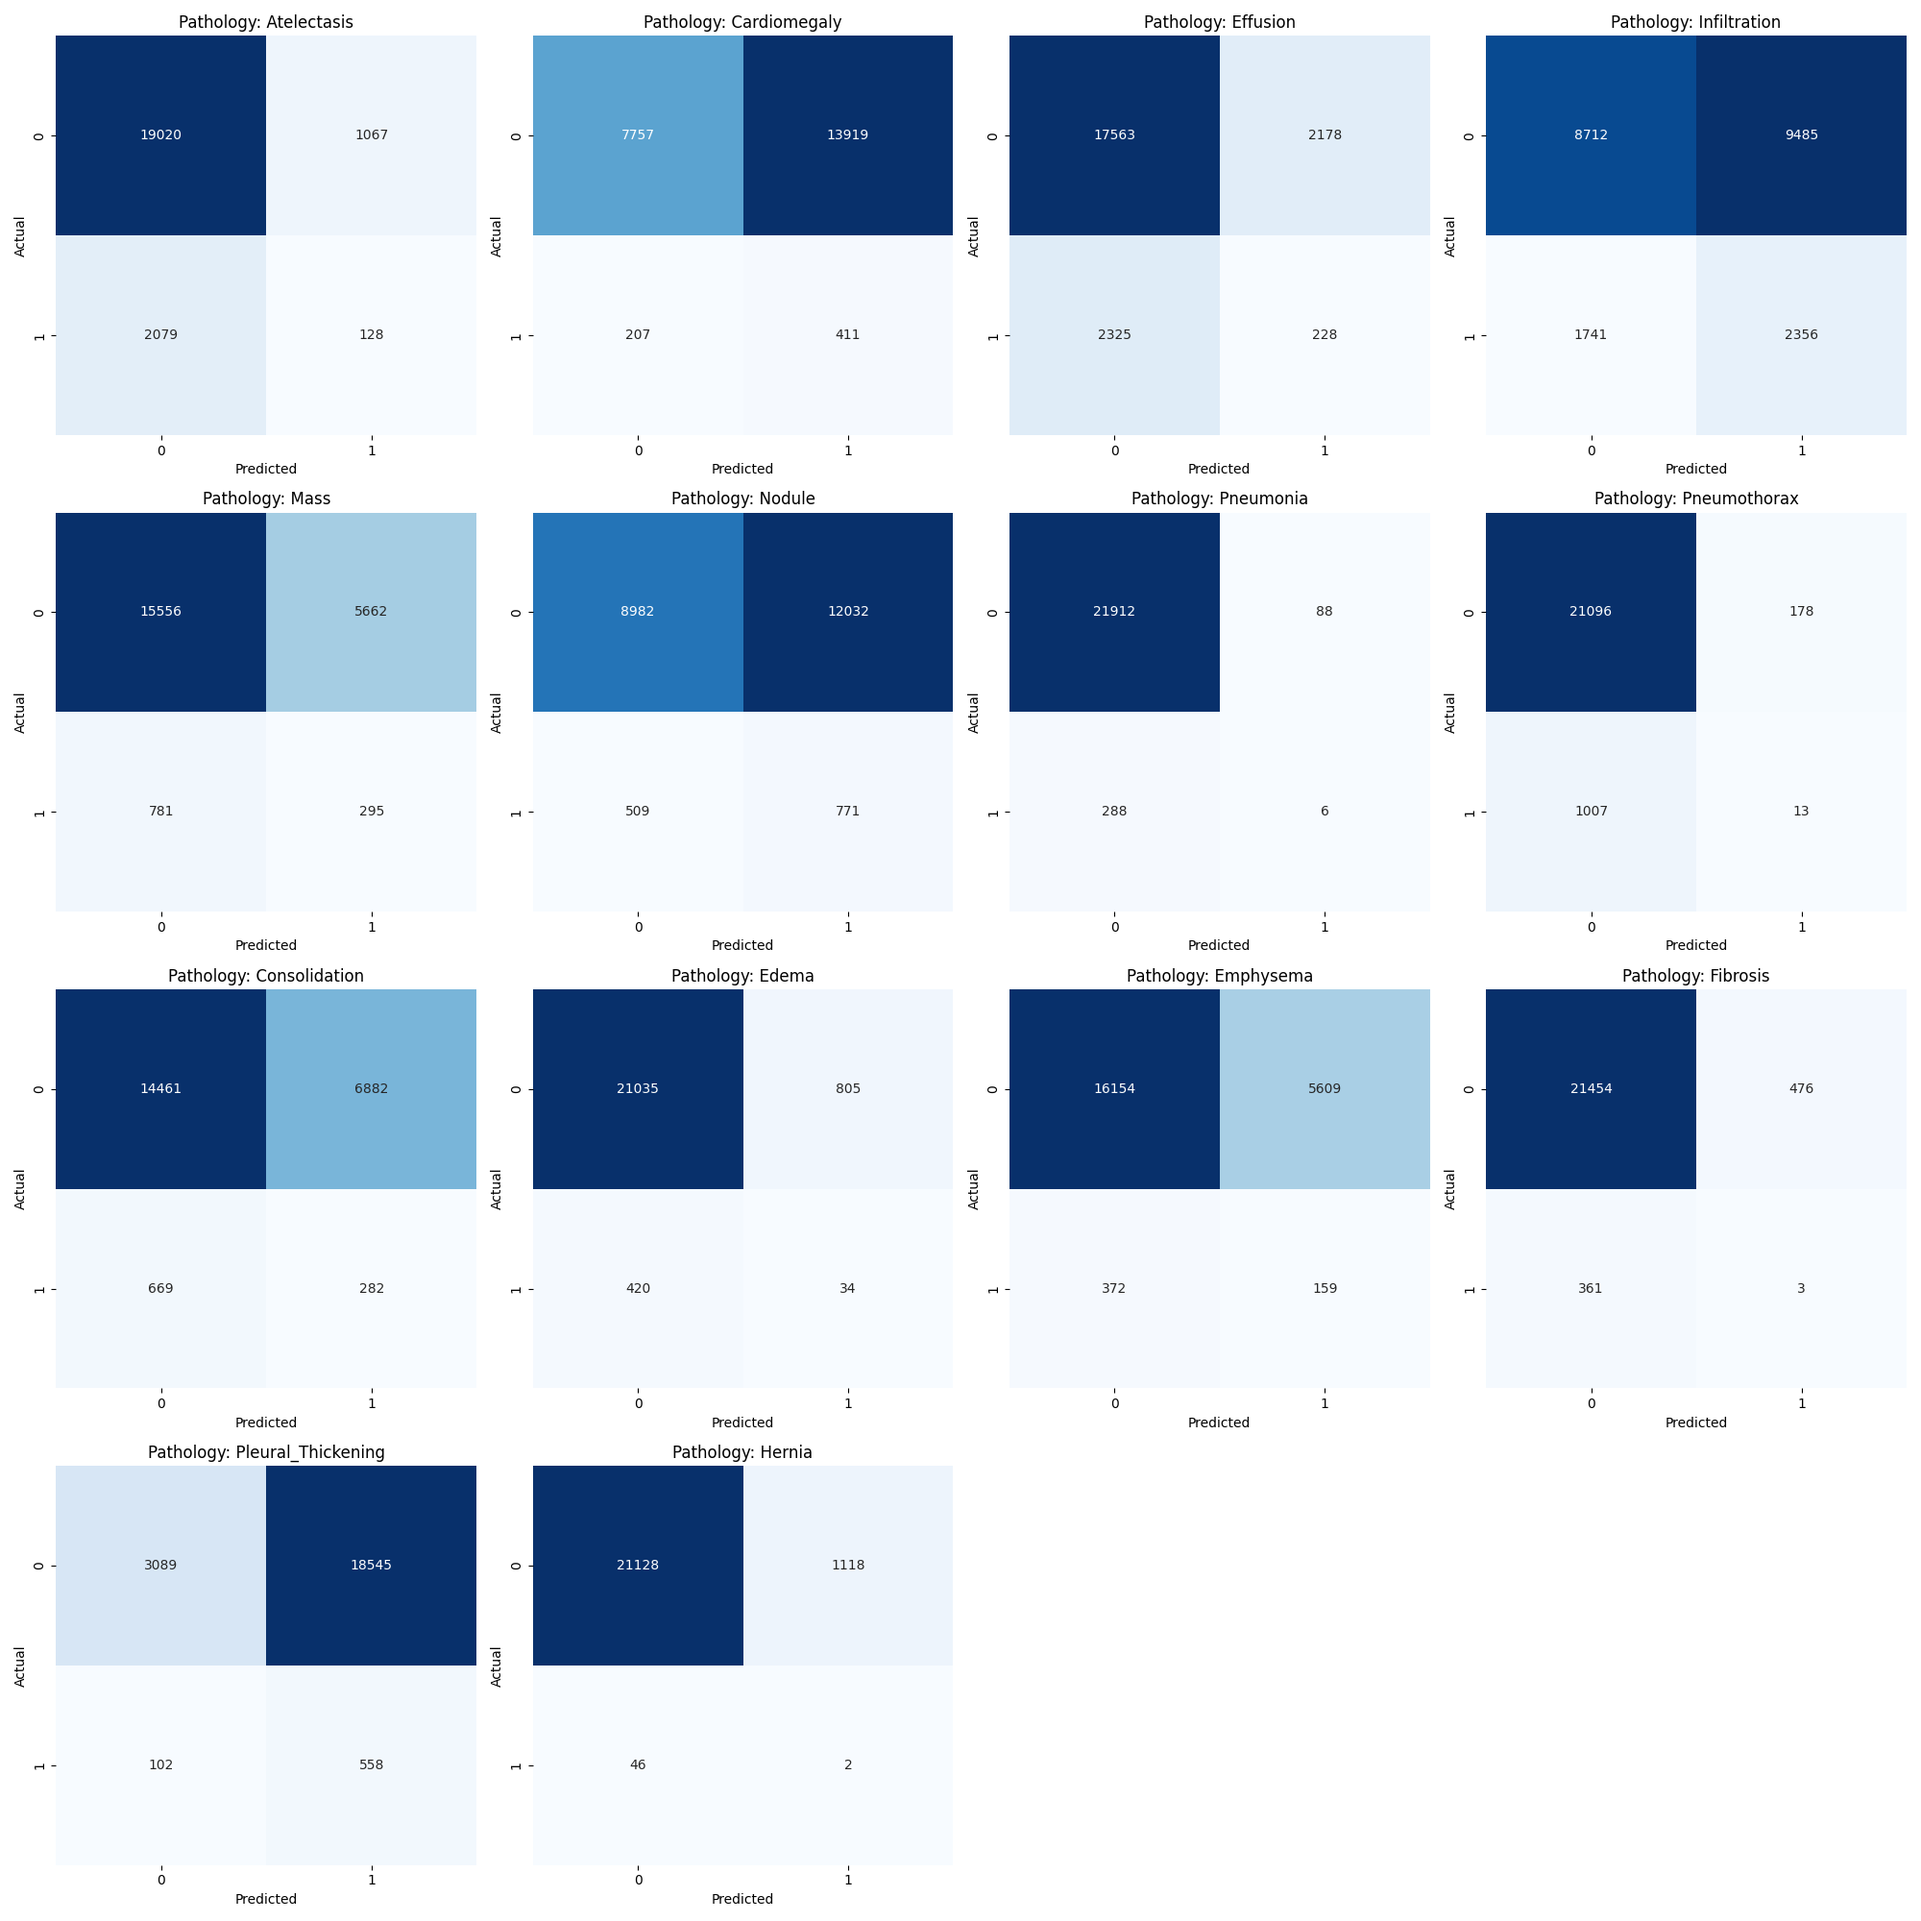
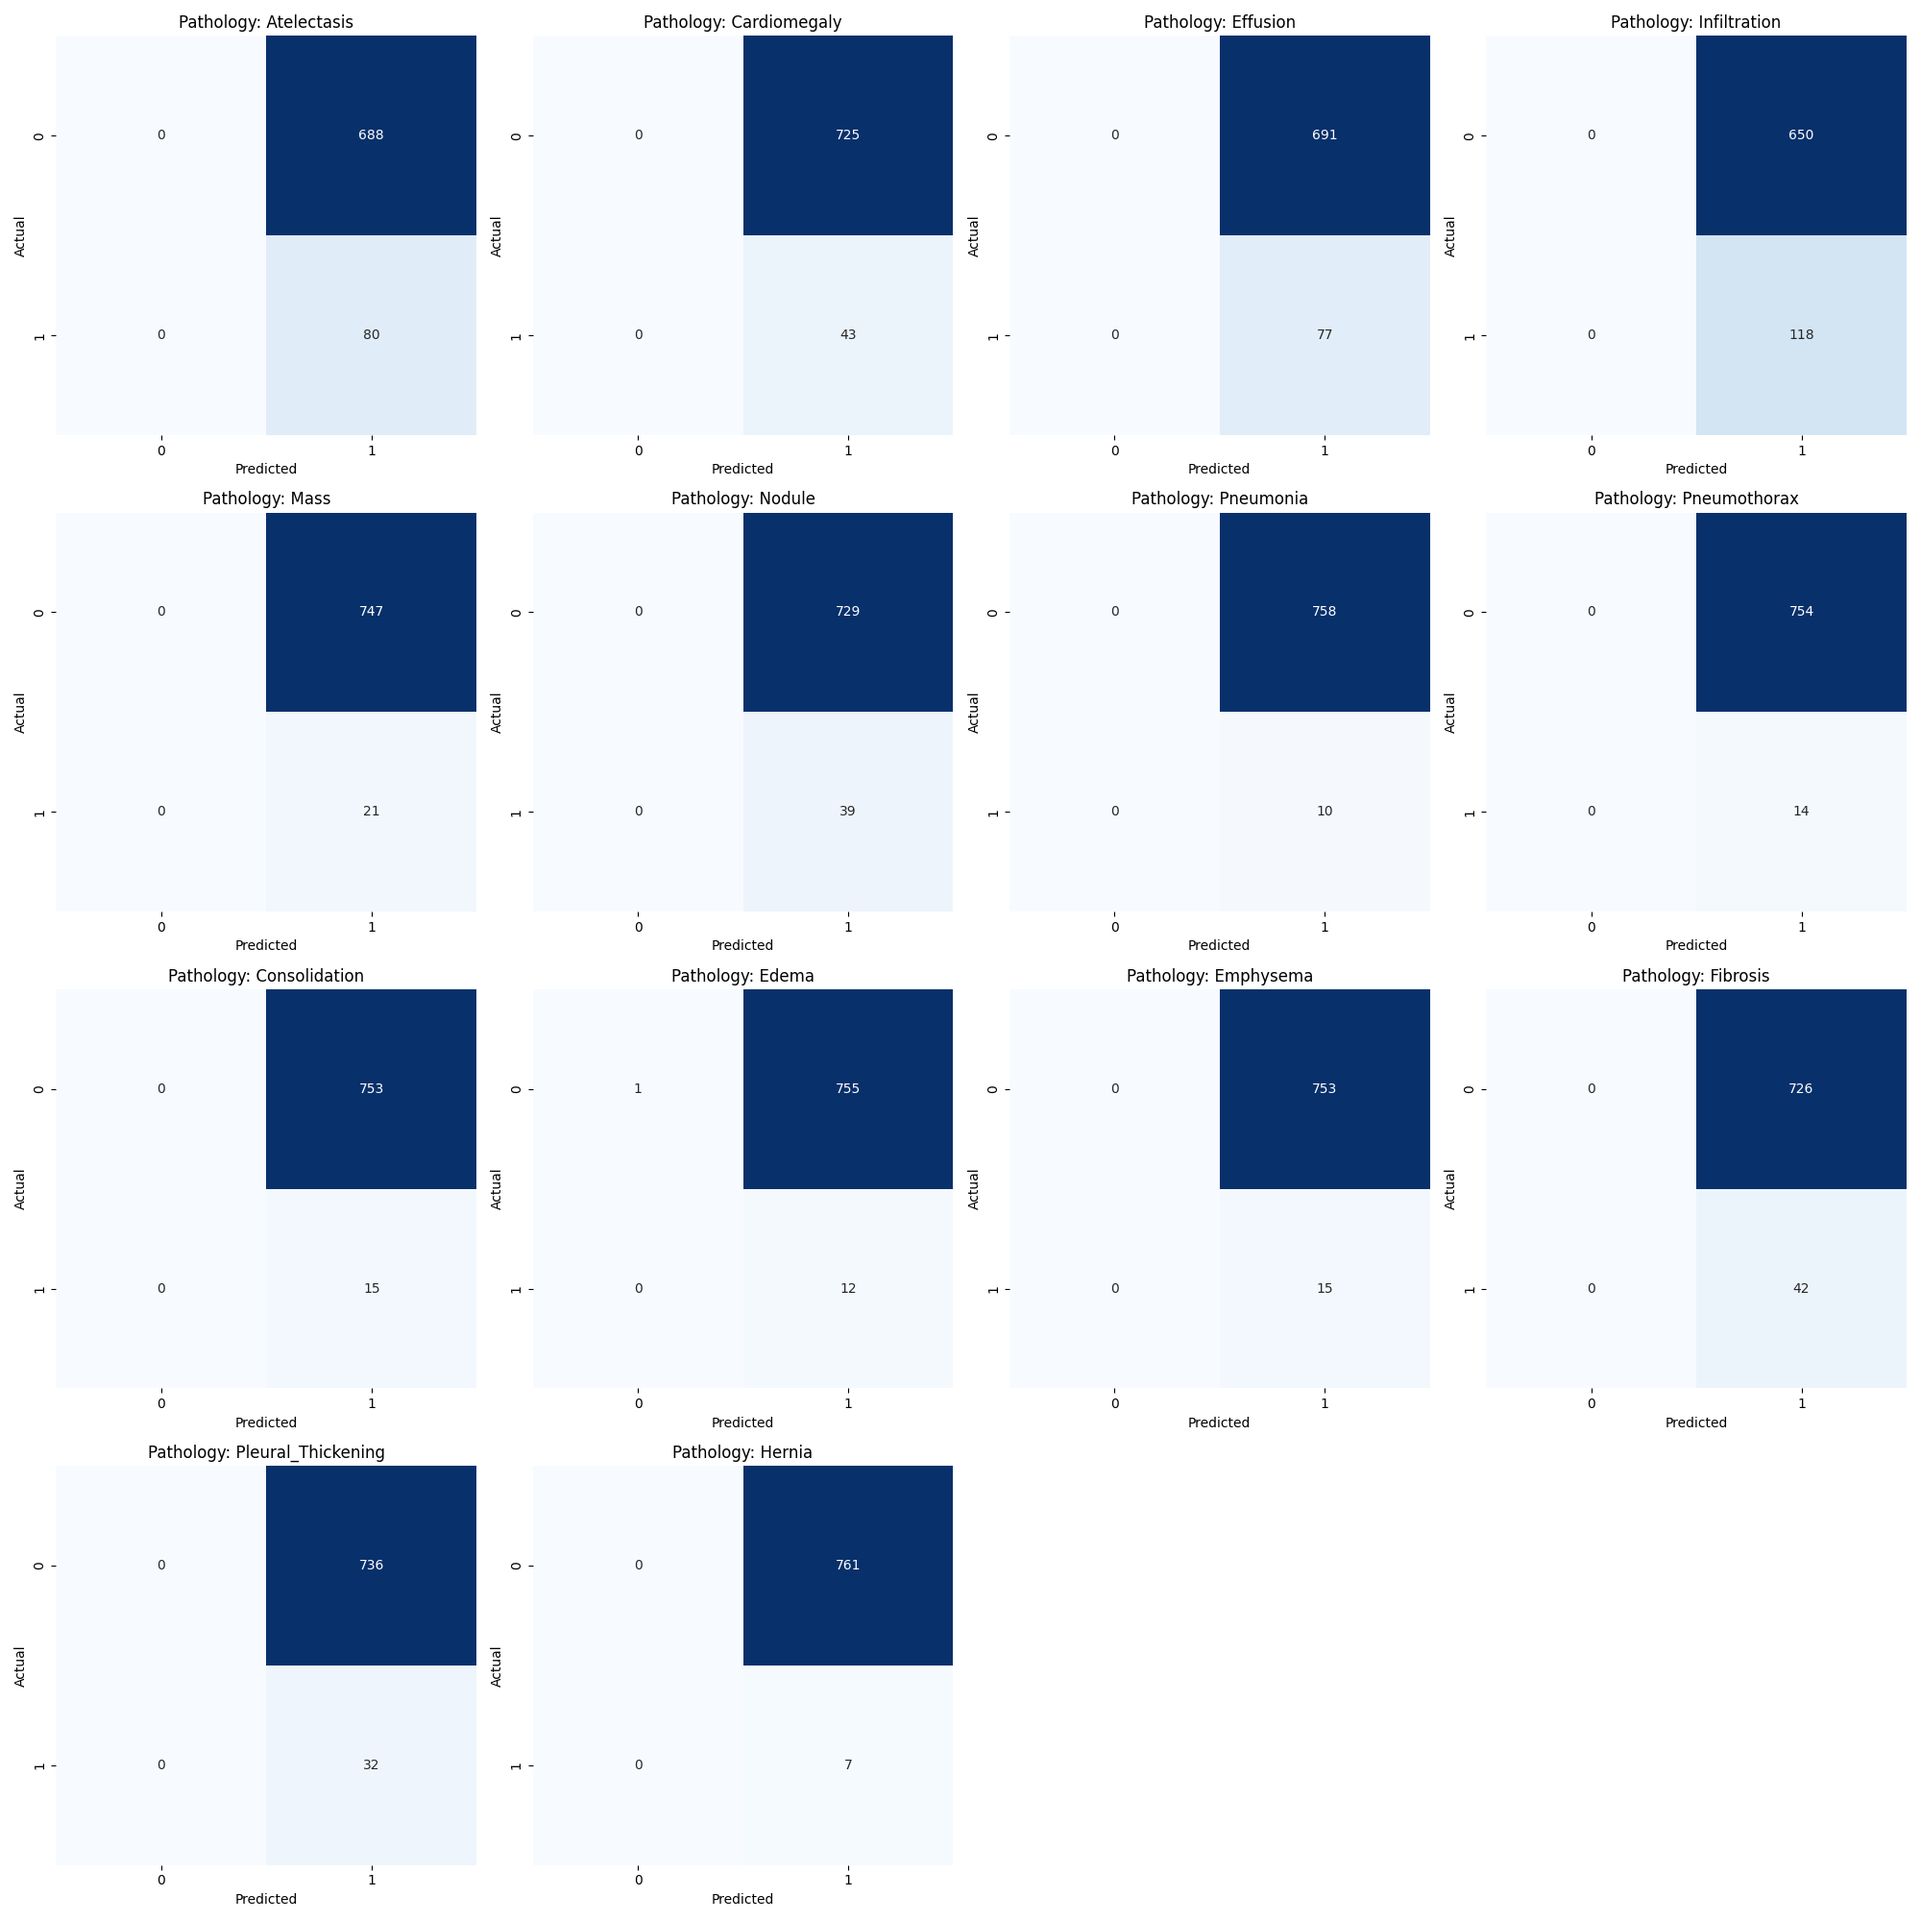
test_eval_base

diff --git a/evaluate_baseline.py b/evaluate_baseline.py
@@ -14,7 +14,7 @@ import argparse
 DEVICE = torch.device("cuda" if torch.cuda.is_available() else "cpu")
 CSV_PATH = "./NIH_Chest_XRay/Data_Entry_2017.csv"
 IMG_DIR = "./NIH_Chest_XRay/images"
-BATCH_SIZE = 128  # Keep low for 1024x1024
+BATCH_SIZE = 256  # Keep low for 1024x1024
 MODEL_NAME = 'densenet121'
 IMG_RES = 224
 
@@ -56,8 +56,11 @@ def main():
     model = model.to(DEVICE).eval()
 
     # XRV outputs 18 classes; we need to map to the standard NIH-14 order
+
     xrv_pathologies = model.pathologies
     indices = [xrv_pathologies.index(p) for p in pathologies if p in xrv_pathologies]
+
+    print(pathologies, [xrv_pathologies[i] for i in indices])
 
     all_preds = []
     all_labels = []
@@ -65,21 +68,27 @@ def main():
     # 4. Inference Loop
     print("Starting Inference...")
     with torch.no_grad():
-        for j, images, labels in tqdm(test_loader):
-
-            if j > 1000:
-                break
+        for images, labels in tqdm(test_loader):
 
             images = images.to(DEVICE)
-            
+
+            # Images are already 1-channel from Dataset.
+            # Scale [0, 1] to XRV's [-1024, 1024]
+            images = (images * 2048) - 1024
+
+            # print("Value of j: ", j)
             # Use Sigmoid for multi-label probabilities
+
+            print(f"Scaled Min: {images.min().item()}, Max: {images.max().item()}, Mean: {images.mean().item()}")
+
             logits = model(images)
             preds = torch.sigmoid(logits)
 
             # ### NIH/XRV SPECIFIC CHANGE: Slice 15-class output down to 14-class NIH order ###
             preds_filtered = preds[:, indices]
             
-            all_preds.append(preds.cpu().numpy())
+            # all_preds.append(preds.cpu().numpy())
+            all_preds.append(preds_filtered.cpu().numpy())
             all_labels.append(labels.numpy())
 
     all_preds = np.vstack(all_preds)
@@ -99,6 +108,8 @@ def main():
     # 6. Confusion Matrices
     # Threshold at 0.5 for binary classification per label
     binary_preds = (all_preds > 0.5).astype(int)
+    print(all_labels, len(all_labels[0]), "ALL_LABELS")
+    print(binary_preds, len(binary_preds[0]), "binary_preds")
     mcm = multilabel_confusion_matrix(all_labels, binary_preds)
     
     plot_confusion_matrices(mcm, pathologies)

diff --git a/datasets/nih_dataset.py b/datasets/nih_dataset.py
@@ -39,7 +39,9 @@ class NIHDataset(Dataset):
         # Load as RGB to ensure compatibility with ImageNet-pretrained weights
         # even though X-rays are fundamentally grayscale.
         try:
-            image = Image.open(img_path).convert('RGB')
+            image = Image.open(img_path).convert('L')
+            
+            # image = Image.open(img_path).convert('RGB')
         except (IOError, OSError):
             # Fallback for corrupted images if any exist in your download
             image = Image.new('RGB', (1024, 1024), (0, 0, 0))
@@ -88,7 +90,7 @@ def get_nih_loaders(csv_path, img_dir, batch_size=16, resize_to=None, test_size=
         transforms.Resize((target_size, target_size)),
         transforms.ToTensor(),
         # Standard ImageNet normalization used by DenseNet/ConvNeXt
-        transforms.Normalize(mean=[0.485, 0.456, 0.406], std=[0.229, 0.224, 0.225]),
+        # transforms.Normalize(mean=[0.485, 0.456, 0.406], std=[0.229, 0.224, 0.225]),
     ])
 
     # 4. Initialize Dataset & Loader
